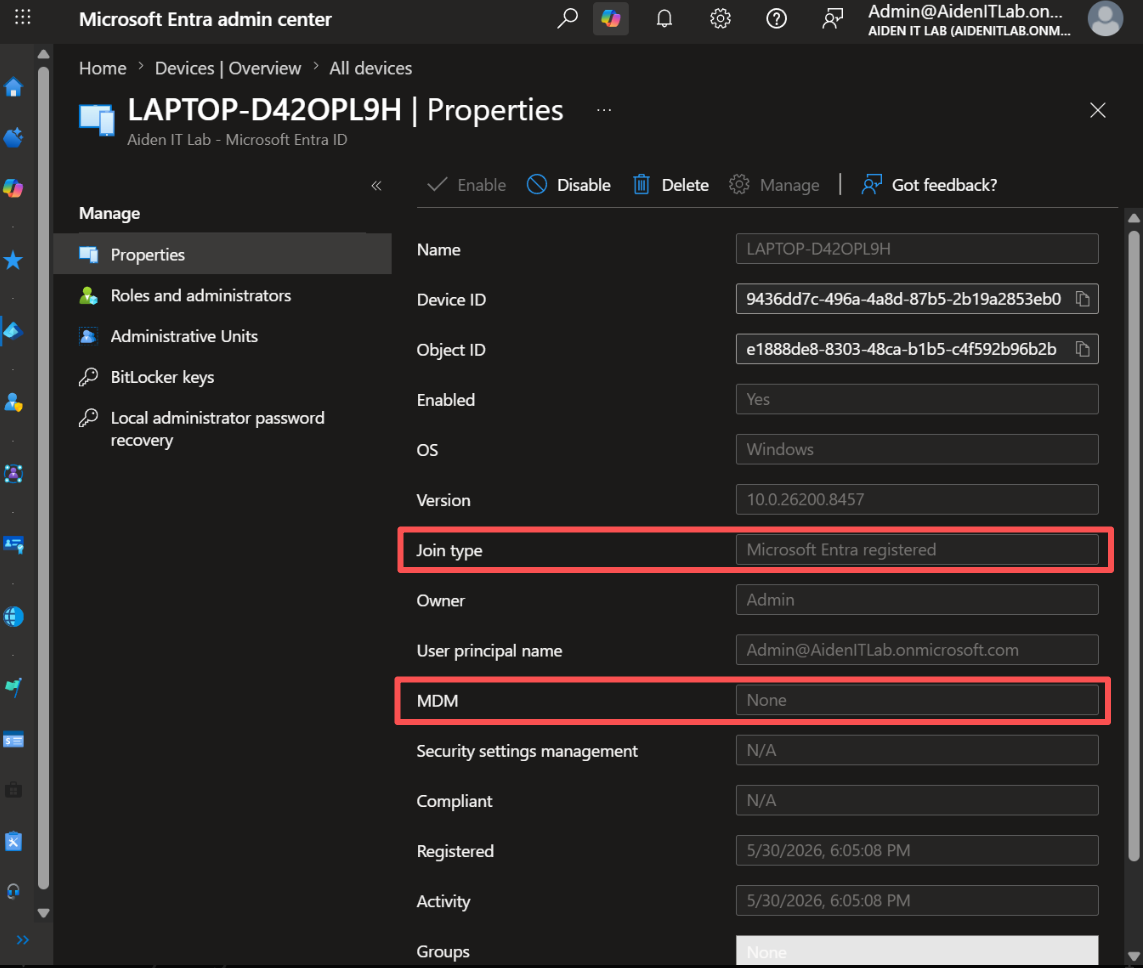
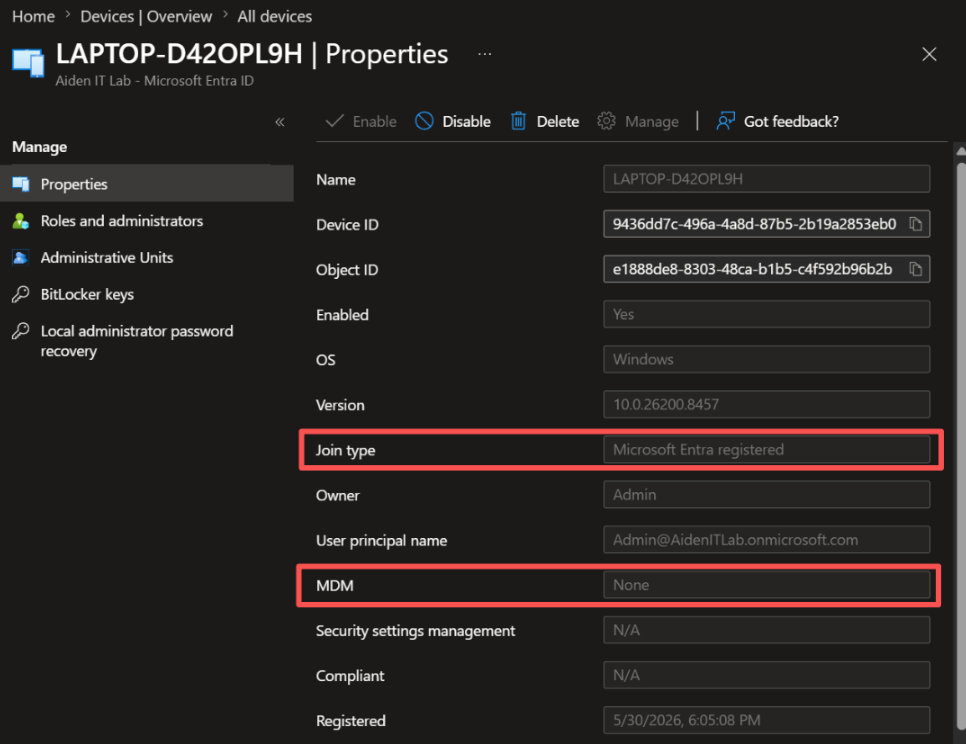
bugfix: update pic

diff --git a/content/labs/intune-device-registration/index.md b/content/labs/intune-device-registration/index.md
@@ -1,5 +1,5 @@
 ---
-title: "Troubleshooting Intune Device Registration"
+title: "Troubleshooting a Windows Device Not Appearing in Microsoft Intune"
 date: 2026-06-07
 draft: false
 tags:
@@ -9,6 +9,17 @@ tags:
 categories:
   - Troubleshooting
 ---
+
+## Root Cause
+
+The device was Microsoft Entra registered, but it had not completed
+Microsoft Intune MDM enrolment. The device status showed `MDM: None`,
+and `dsregcmd /status` showed `AzureAdJoined: NO` and
+`WorkplaceJoined: YES`.
+
+The work or school account connection needed to be re-established
+after confirming that the user had a valid Intune licence and was
+included in the MDM user scope.
 
 ## Objective
 
@@ -31,19 +42,42 @@ The device appeared in Microsoft Entra ID, but it was not displayed correctly in
 
 Steps I checked:
 
-S1. The user's Microsoft 365 licence
+### Step 1: Verify the Microsoft 365 licence
+
+The user had an active Microsoft 365 Business Premium licence,
+which includes Microsoft Intune. Therefore, licensing was not the
+cause of the issue.
+
+The user had an active Microsoft 365 Business Premium licence,
+which includes Microsoft Intune. Therefore, licensing was not the
+cause of the issue.
 
 ![check licence](./imgae/check_licence.png)
 
-S2. The device status in Microsoft Entra ID
+### Step 2: Check the device in Microsoft Entra ID
 
+The device existed in Microsoft Entra ID, but its join type was
+`Microsoft Entra registered` and its MDM status was `None`.
+This confirmed that Entra registration had succeeded, but Intune
+enrolment had not.
 ![intune admin info](./imgae/intune_admin_info.png)
 
-S3. The Intune automatic enrolment scope
+### Step 3: Check the MDM user scope
+
+The MDM user scope was configured as `All`, so the affected user
+was eligible for automatic Intune enrolment.
 
 ![check MDM scope](./imgae/check-MDM-scope.png)
 
-S4. The user and device association run `dsregcmd /status`
+### Step 4: Run dsregcmd /status
+
+The command returned:
+
+- AzureAdJoined: NO
+- WorkplaceJoined: YES
+
+This showed that the device was workplace registered rather than
+Microsoft Entra joined.
 
 ```text
 AzureAdJoined : NO
@@ -56,6 +90,8 @@ WorkplaceSettingsUrl :
 ## Resolution
 
 After checking the enrolment settings and reconnecting the work account, the device successfully appeared in Microsoft Intune.
+
+![success](./imgae/success.png)
 
 ## Verification
 
